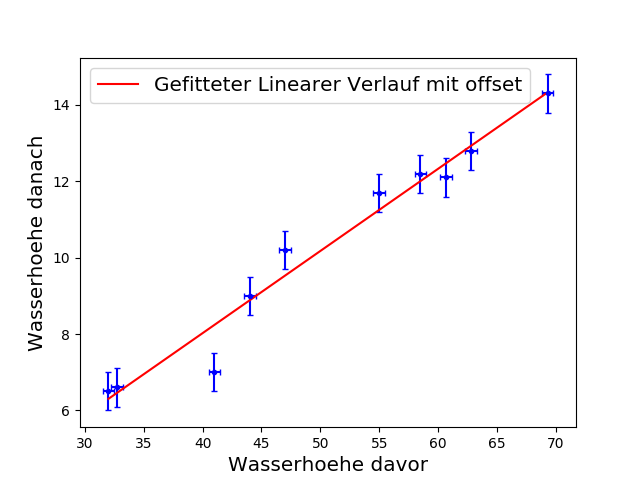
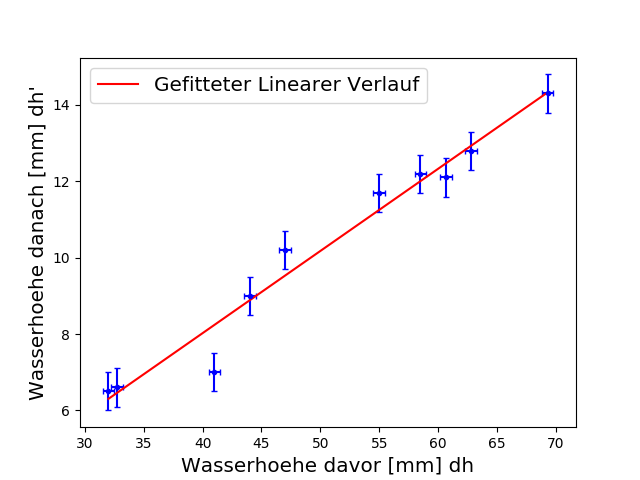
Corrected some values and errors

Changed region(s): [[0.2812, 0.9375, 0.75, 1.0], [0.0312, 0.1875, 0.0938, 0.8438], [0.6562, 0.1562, 0.8125, 0.2188]]

diff --git a/scripts/plot.py b/scripts/plot.py
@@ -16,7 +16,7 @@ plot_folder = "../Versuch10/plots/"
 
 include_legend = True
 fit = True
-include_parameter_values = False
+include_parameter_values = True
 add_origin = False
 show_plot = True
 
@@ -26,13 +26,13 @@ y_column_caption = "h1"
 x_err_column_caption = "fh"
 y_err_column_caption = "fh1"
 #set axis labels and graph appearence
-x_label = "Wasserhoehe davor [mm]"
-y_label = "Wasserhoehe danach [mm]"
+x_label = "Wasserhoehe davor [mm] dh"
+y_label = "Wasserhoehe danach [mm] dh'"
 graph_format = "b." #respectively color and line style
 axes_label_fontsize = "x-large"
 error_bar_capsize = 2
 #fit setup
-function_to_fit = ft.linear1
+function_to_fit = ft.linear2
 fit_graph_format = "r-"
 fit_samples_number = 150
 show_parameter_table = True
@@ -42,7 +42,7 @@ legend_fontsize = "x-large"
 raw_graph_label = ""
 fitted_graph_label = "Gefitteter Linearer Verlauf"
 #indexes of datapoints to discard
-discard_datapoints_indexes = [6]
+discard_datapoints_indexes = []
 
 '''==========================================
 =========================================='''
@@ -155,7 +155,7 @@ if (fit):
         param_txt.write ("; Covariance: ")
         for co in pcov: #writes covariance matrix
             param_txt.write(str(co) + " ")
-        param_txt.write("; K = {}".format(str(1/(1-popt[0]))))
+        param_txt.write("; K = {}".format(str(1/(1-popt[0])))) #calculates K from steigung
         param_txt.close()
 
 plot(x_values, y_values, x_label, y_label, x_err_values, y_err_values)
